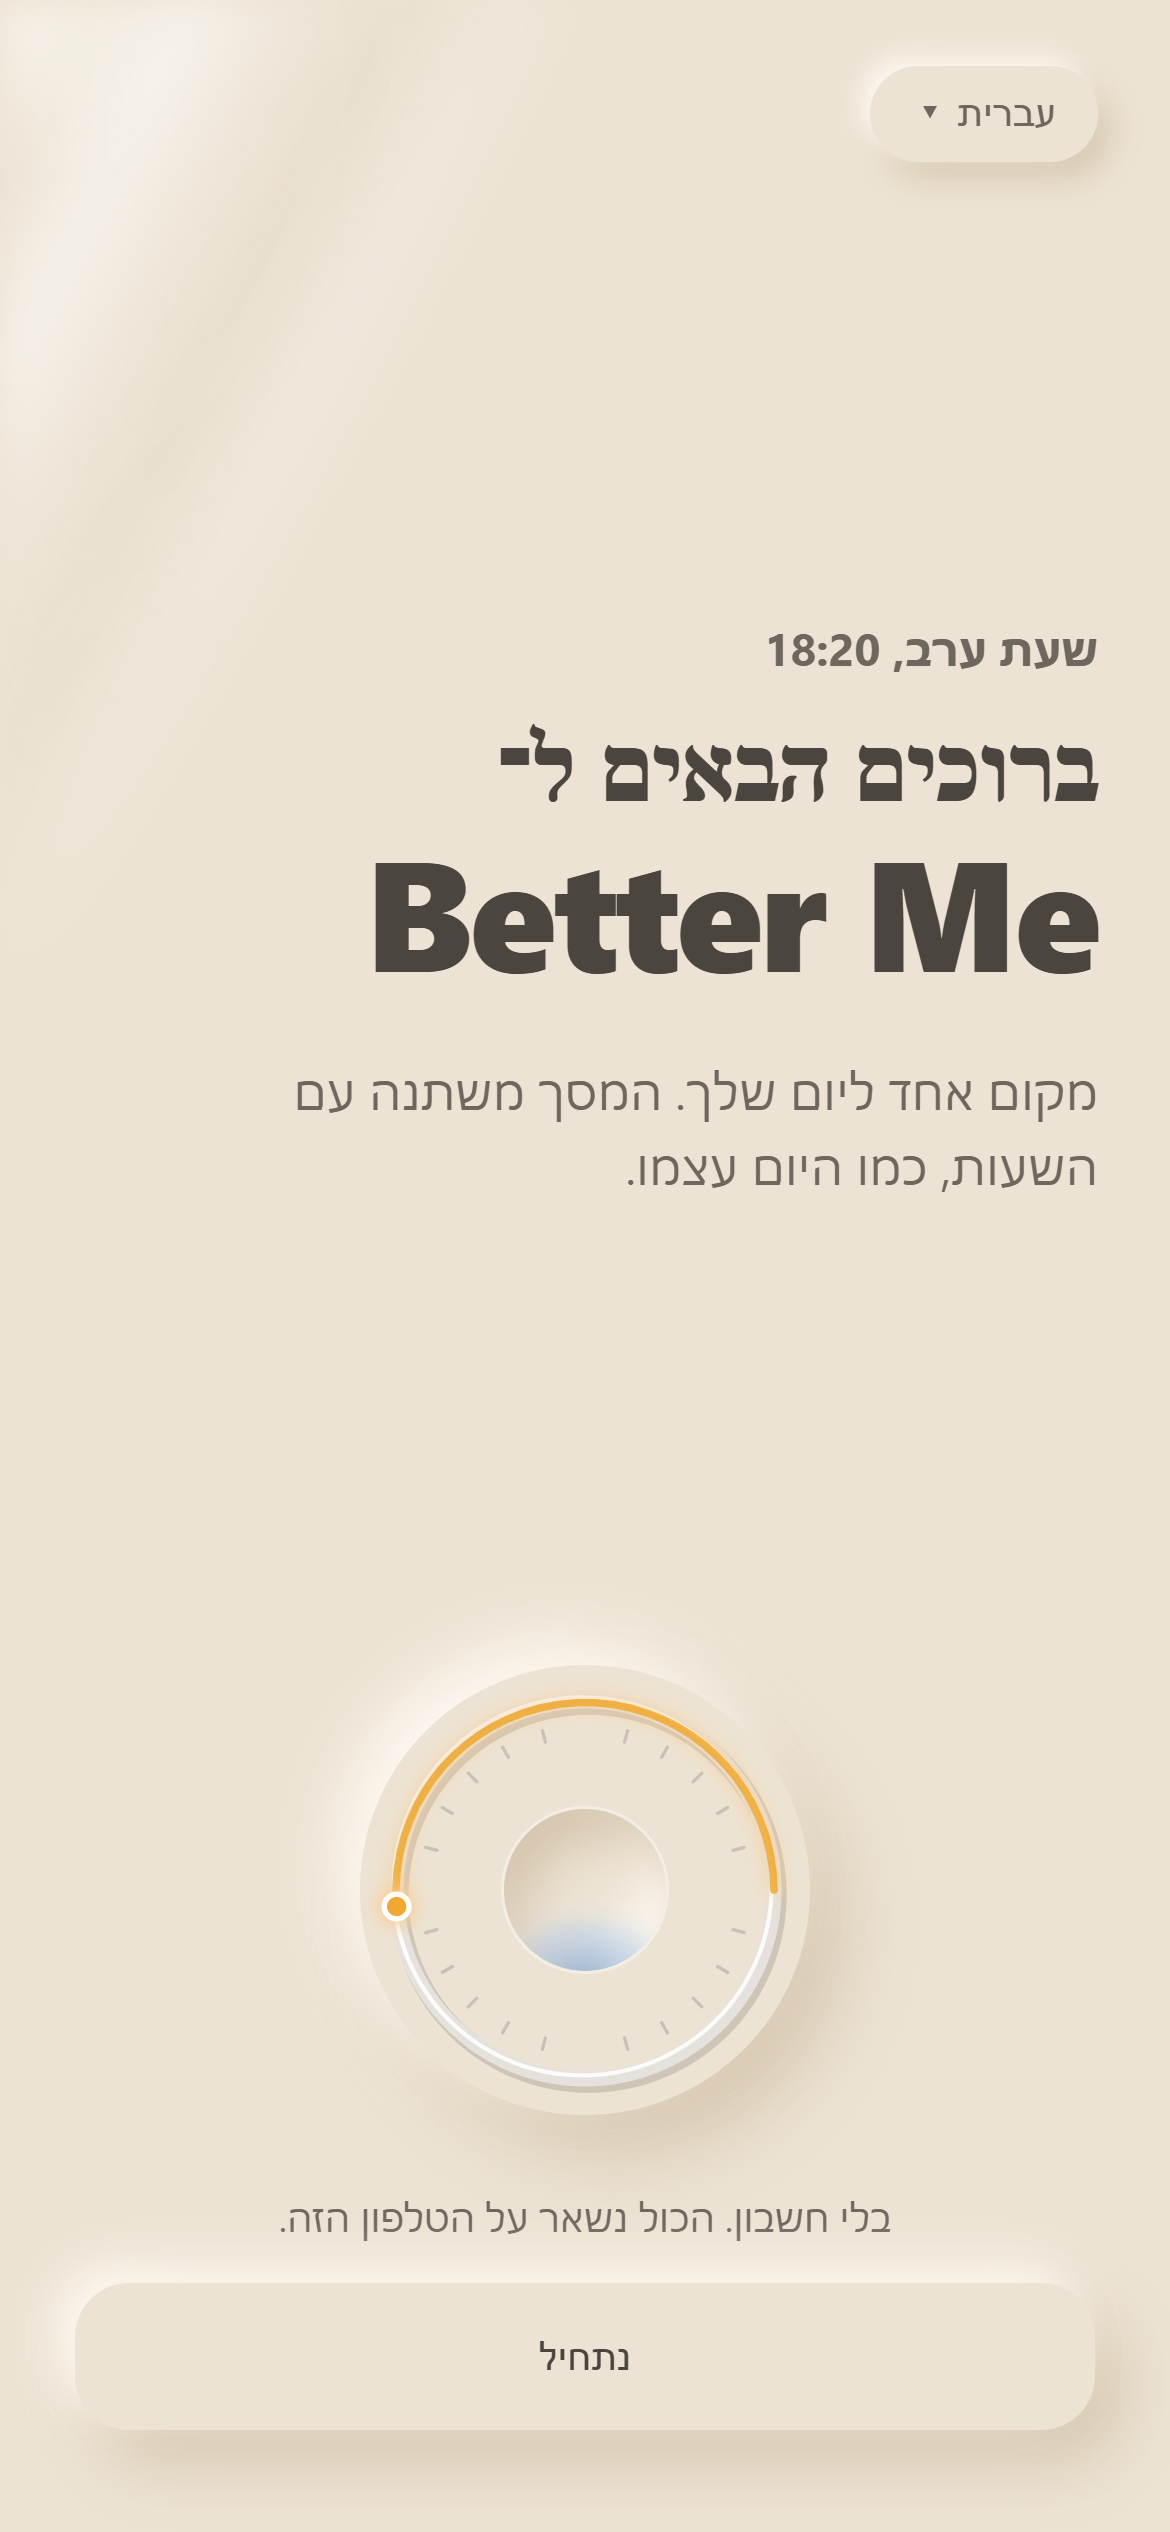
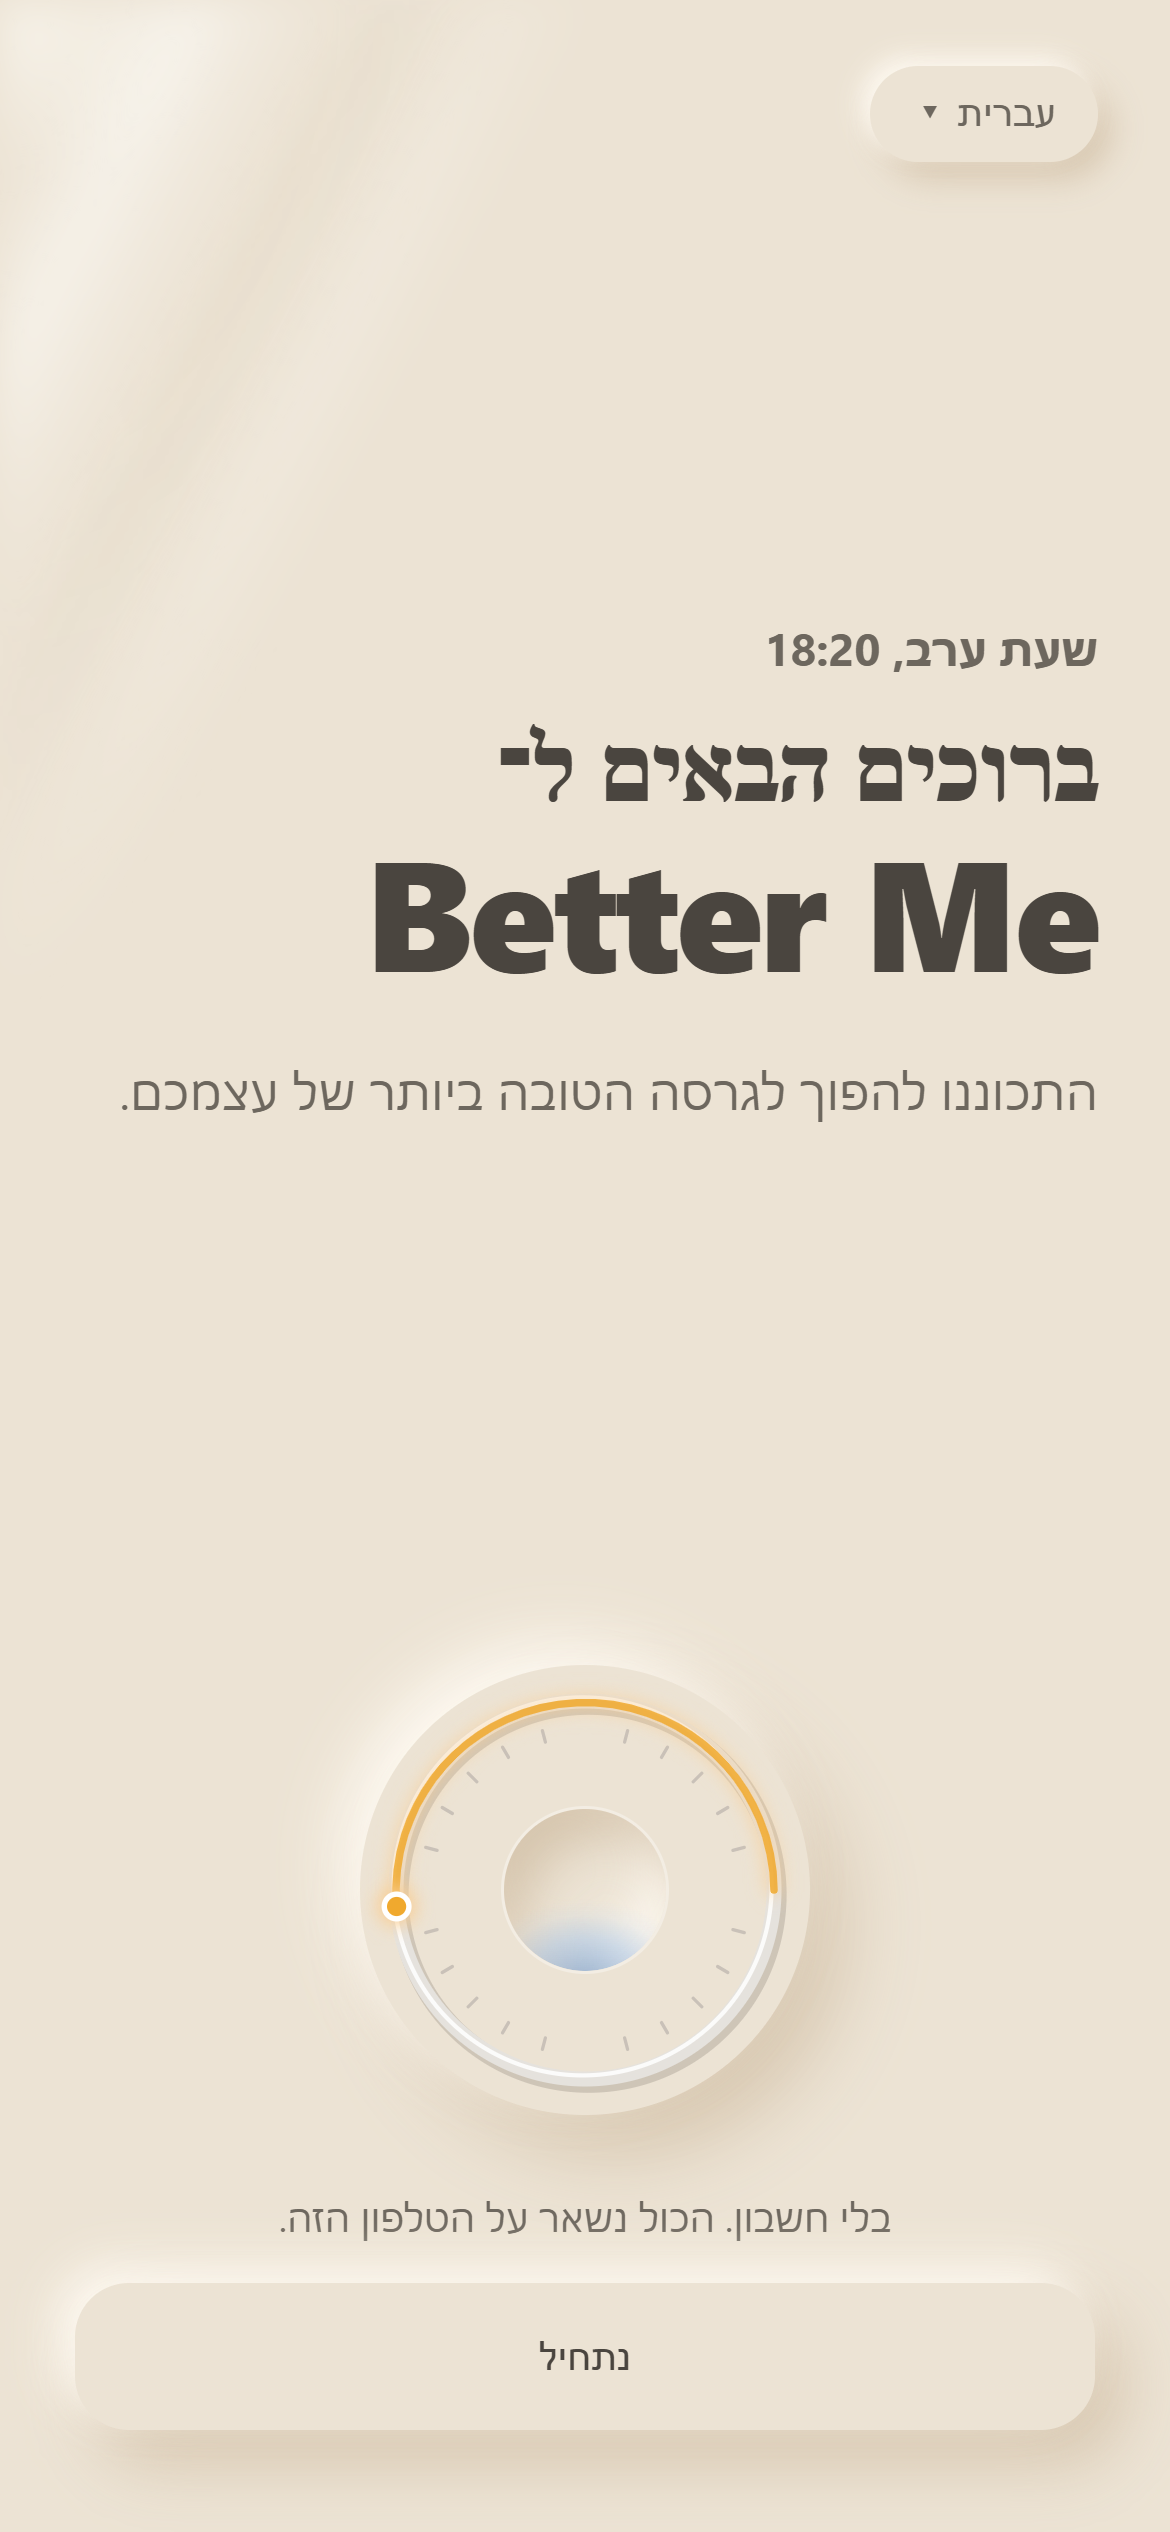
Welcome: his line - get ready to become the best version of yourself

Changed region(s): [[0.4615, 0.4056, 0.9231, 0.468], [0.2462, 0.4056, 0.4308, 0.4368], [0.1538, 0.4056, 0.1846, 0.4368]]

diff --git a/review/first-1b/c.html b/review/first-1b/c.html
@@ -19,7 +19,7 @@
 .hour{font-size:15px;font-weight:700;color:var(--mu);margin-bottom:8px;opacity:0;animation:up .7s ease .4s forwards}
 .wel{font-size:34px;font-weight:800;letter-spacing:-.6px;line-height:1.15;margin:0;opacity:0;animation:up .8s ease .7s forwards}
 .name{display:block;font-size:52px;letter-spacing:-1.2px;direction:ltr;text-align:start;unicode-bidi:plaintext}
-p{font-size:16px;line-height:1.6;color:var(--mu);margin:18px 0 0;max-width:290px;opacity:0;animation:up .7s ease 1.1s forwards}
+p{font-size:16px;line-height:1.6;color:var(--mu);margin:18px 0 0;max-width:330px;text-wrap:balance;opacity:0;animation:up .7s ease 1.1s forwards}
 .dial{align-self:center;margin-top:auto;margin-bottom:26px;opacity:0;animation:up .9s ease 1.4s forwards}
 .local{align-self:center;margin-bottom:14px;opacity:0;animation:up .7s ease 1.7s forwards}
 .go{opacity:0;animation:up .7s ease 1.9s forwards}
@@ -29,7 +29,7 @@ p{font-size:16px;line-height:1.6;color:var(--mu);margin:18px 0 0;max-width:290px
 <div class="mid">
   <div class="hour">שעת ערב, 18:20</div>
   <div class="wel">ברוכים הבאים ל־<span class="name">Better Me</span></div>
-  <p>מקום אחד ליום שלך. המסך משתנה עם השעות, כמו היום עצמו.</p>
+  <p>התכוננו להפוך לגרסה הטובה ביותר של עצמכם.</p>
   <div class="dial" id="d"></div>
 </div>
 <div class="local">בלי חשבון. הכול נשאר על הטלפון הזה.</div>

diff --git a/review/first-1b/a.html b/review/first-1b/a.html
@@ -9,7 +9,7 @@
 .em{margin-bottom:30px;opacity:0;animation:up .8s ease .1s forwards}
 .wel{font-size:15px;font-weight:700;color:var(--mu);letter-spacing:.02em;margin-bottom:6px;opacity:0;animation:up .7s ease .6s forwards}
 .name{font-size:46px;font-weight:800;letter-spacing:-1px;line-height:1.05;margin:0 0 18px;direction:ltr;opacity:0;animation:up .8s ease .8s forwards}
-p{font-size:16px;line-height:1.65;color:var(--mu);margin:0;max-width:300px;opacity:0;animation:up .7s ease 1.2s forwards}
+p{font-size:16px;line-height:1.65;color:var(--mu);margin:0;max-width:340px;text-wrap:balance;opacity:0;animation:up .7s ease 1.2s forwards}
 .local{margin-top:18px;opacity:0;animation:up .7s ease 1.5s forwards}
 .go{opacity:0;animation:up .7s ease 1.8s forwards}
 </style></head><body><div class="s">
@@ -18,7 +18,7 @@ p{font-size:16px;line-height:1.65;color:var(--mu);margin:0;max-width:300px;opaci
   <div class="em" id="d"></div>
   <div class="wel">ברוכים הבאים ל־</div>
   <div class="name">Better Me</div>
-  <p>מקום אחד ליום שלך. ובסוף כל יום, רגע לעצור ולהסתכל עליו.</p>
+  <p>התכוננו להפוך לגרסה הטובה ביותר של עצמכם.</p>
   <div class="local">בלי חשבון. הכול נשאר על הטלפון הזה.</div>
 </div>
 <button class="go">נתחיל</button>

diff --git a/review/first-1b/b.html b/review/first-1b/b.html
@@ -15,7 +15,7 @@
 .big .wd-well::before{opacity:0;animation:fade 1.2s ease 1.6s forwards}
 .wel{font-size:15px;font-weight:700;color:var(--mu);margin-bottom:6px;opacity:0;animation:up .7s ease 2.6s forwards}
 .name{font-size:42px;font-weight:800;letter-spacing:-1px;line-height:1.05;margin:0 0 14px;direction:ltr;opacity:0;animation:up .8s ease 2.8s forwards}
-p{font-size:16px;line-height:1.6;color:var(--mu);margin:0;max-width:300px;opacity:0;animation:up .7s ease 3.1s forwards}
+p{font-size:16px;line-height:1.6;color:var(--mu);margin:0;max-width:340px;text-wrap:balance;opacity:0;animation:up .7s ease 3.1s forwards}
 .local{margin-top:14px;opacity:0;animation:up .7s ease 3.3s forwards}
 .go{opacity:0;animation:up .7s ease 3.5s forwards}
 @keyframes rise{from{opacity:0;transform:translateY(20px) scale(.94)}to{opacity:1;transform:none}}
@@ -26,7 +26,7 @@ p{font-size:16px;line-height:1.6;color:var(--mu);margin:0;max-width:300px;opacit
   <div class="big" id="d"></div>
   <div class="wel">ברוכים הבאים ל־</div>
   <div class="name">Better Me</div>
-  <p>היום שלך, במקום אחד.</p>
+  <p>התכוננו להפוך לגרסה הטובה ביותר של עצמכם.</p>
   <div class="local">בלי חשבון. הכול נשאר על הטלפון הזה.</div>
 </div>
 <button class="go">נתחיל</button>
